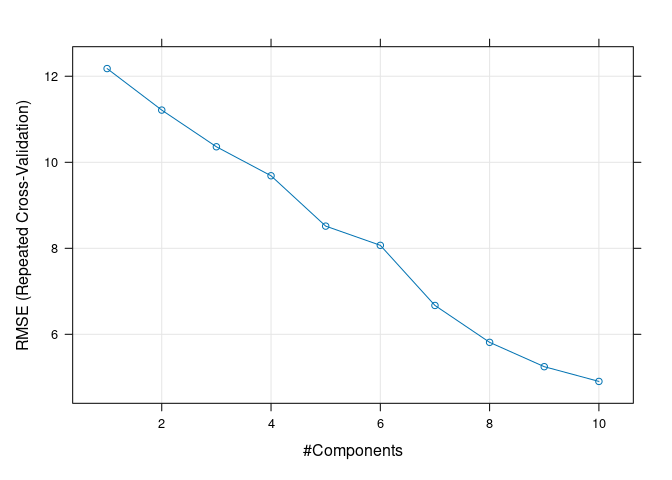
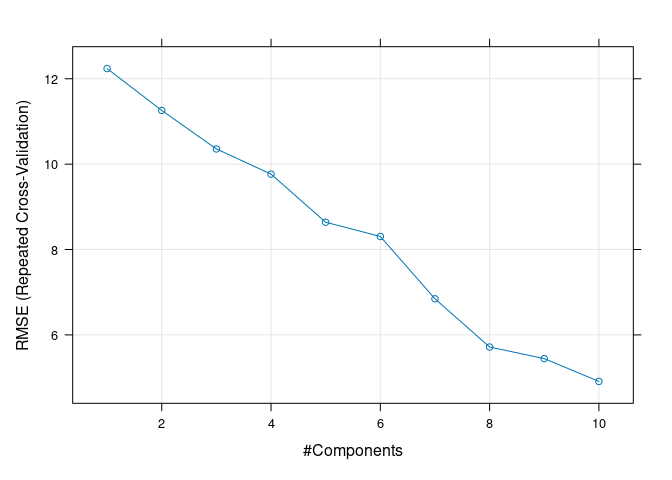
update readme

diff --git a/README.md b/README.md
@@ -1,25 +1,25 @@
 TROPIRES Summer School Uganda August 19–23 2024
 ================
 
-- [Data overview](#data-overview)
+- [Calibration data](#calibration-data)
   - [TropSOC data from Uganda (cropland and
     forest)](#tropsoc-data-from-uganda-cropland-and-forest)
-    - [Absorbance spectra in NIR
-      range](#absorbance-spectra-in-nir-range)
   - [Samples from PhD project Laura](#samples-from-phd-project-laura)
-- [Calibration modeling
-  (cross-validation)](#calibration-modeling-cross-validation)
-  - [Pre-process / smoothen spectra](#pre-process--smoothen-spectra)
-  - [Visualization](#visualization)
-  - [PLS modeling](#pls-modeling)
-- [Calibration modeling (independent
-  validation)](#calibration-modeling-independent-validation)
+  - [Calibration modeling
+    (cross-validation)](#calibration-modeling-cross-validation)
+    - [Pre-process / smoothen spectra](#pre-process--smoothen-spectra)
+    - [Visualization](#visualization)
+    - [PLS modeling](#pls-modeling)
+  - [Calibration modeling (independent
+    validation)](#calibration-modeling-independent-validation)
+- [Validation samples](#validation-samples)
+- [Prediction samples](#prediction-samples)
 
-Data for soil near-infrared calibration modeling exercises
+**Data for soil near-infrared calibration modeling exercises**
 
-Leonardo Ramirez-Lopez, Moritz Mainka, Laura Summerauer
+*Leonardo Ramirez-Lopez, Moritz Mainka, Laura Summerauer*
 
-# Data overview
+# Calibration data
 
 ## TropSOC data from Uganda (cropland and forest)
 
@@ -47,8 +47,7 @@ str(tropsoc_data)
     ##   .. ..$ : NULL
     ##   .. ..$ : chr [1:1745] "7408" "7406" "7404" "7402" ...
 
-### Absorbance spectra in NIR range
-
+- Absorbance spectra in NIR range
 - Units are wavenumbers (1 / cm)
 
 ``` r
@@ -87,7 +86,7 @@ str(laura_data)
     ##   .. ..$ : NULL
     ##   .. ..$ : chr [1:1745] "7408" "7406" "7404" "7402" ...
 
-# Calibration modeling (cross-validation)
+## Calibration modeling (cross-validation)
 
 - Use here merged TropSOC and Laura samples (except volcanic Saaka
   samples)
@@ -113,7 +112,7 @@ str(alldata)
     ##   .. ..$ : NULL
     ##   .. ..$ : chr [1:1745] "7408" "7406" "7404" "7402" ...
 
-## Pre-process / smoothen spectra
+### Pre-process / smoothen spectra
 
 ``` r
 wavs <- as.numeric(colnames(alldata$abs))
@@ -126,7 +125,7 @@ alldata$abs_pre <- alldata$abs |>
   # savitzkyGolay(m = 2, p = 2, w = 17) 
 ```
 
-## Visualization
+### Visualization
 
 ``` r
 # raw absorbance
@@ -156,7 +155,7 @@ matplot(x = as.numeric(colnames(alldata$abs_pre)), y = alldata$abs_pre[1,],
 
 ![](README_files/figure-gfm/unnamed-chunk-6-2.png)<!-- -->
 
-## PLS modeling
+### PLS modeling
 
 ``` r
 library(caret)
@@ -193,20 +192,20 @@ pls_model
     ## 
     ## Pre-processing: centered (1727), scaled (1727) 
     ## Resampling: Cross-Validated (10 fold, repeated 1 times) 
-    ## Summary of sample sizes: 135, 137, 135, 136, 137, 136, ... 
+    ## Summary of sample sizes: 135, 135, 138, 137, 137, 135, ... 
     ## Resampling results across tuning parameters:
     ## 
     ##   ncomp  RMSE       Rsquared   MAE      
-    ##    1     12.178726  0.2589617  10.029109
-    ##    2     11.213387  0.3696282   9.034559
-    ##    3     10.360286  0.4516112   8.422975
-    ##    4      9.686226  0.5189916   7.723089
-    ##    5      8.515618  0.6512602   7.099686
-    ##    6      8.068875  0.6854908   6.761423
-    ##    7      6.670518  0.7900527   5.282756
-    ##    8      5.812948  0.8433361   4.577124
-    ##    9      5.247030  0.8707254   4.107560
-    ##   10      4.904454  0.8902513   3.756511
+    ##    1     12.238933  0.2491528  10.054748
+    ##    2     11.257560  0.3711529   9.009294
+    ##    3     10.356019  0.4772331   8.464809
+    ##    4      9.766097  0.5368541   7.743555
+    ##    5      8.638522  0.6394758   7.164671
+    ##    6      8.305312  0.6791765   7.029504
+    ##    7      6.844789  0.7765025   5.388401
+    ##    8      5.715564  0.8346323   4.445922
+    ##    9      5.443237  0.8517842   4.210469
+    ##   10      4.909349  0.8775332   3.869282
     ## 
     ## RMSE was used to select the optimal model using  the one SE rule.
     ## The final value used for the model was ncomp = 10.
@@ -225,7 +224,7 @@ range(alldata$TC_gkg)
 
 ![](README_files/figure-gfm/unnamed-chunk-8-1.png)<!-- -->
 
-# Calibration modeling (independent validation)
+## Calibration modeling (independent validation)
 
 ``` r
 # kennard-Stone sampling for independent validation
@@ -258,22 +257,78 @@ pls_model_iv
     ## 
     ## Pre-processing: centered (1727), scaled (1727) 
     ## Resampling: Cross-Validated (10 fold, repeated 1 times) 
-    ## Summary of sample sizes: 91, 91, 93, 91, 91, 89, ... 
+    ## Summary of sample sizes: 90, 93, 92, 91, 91, 90, ... 
     ## Resampling results across tuning parameters:
     ## 
     ##   ncomp  RMSE       Rsquared   MAE     
-    ##    1     11.864448  0.3341853  9.997683
-    ##    2     11.030310  0.4340997  9.174372
-    ##    3     10.753252  0.4595938  8.958668
-    ##    4     10.042651  0.5326700  8.228529
-    ##    5      8.863269  0.6536931  7.345644
-    ##    6      8.560548  0.6836322  7.233586
-    ##    7      7.427885  0.7433091  5.921165
-    ##    8      6.611823  0.8029454  5.312922
-    ##    9      6.232088  0.8238789  4.970096
-    ##   10      5.883511  0.8482801  4.724376
+    ##    1     12.041767  0.2745027  9.997320
+    ##    2     11.244537  0.3833168  9.262453
+    ##    3     10.800388  0.4291245  8.879407
+    ##    4     10.086885  0.5124458  8.126361
+    ##    5      9.155540  0.6372608  7.580643
+    ##    6      8.178088  0.7106456  6.849990
+    ##    7      7.626245  0.7818996  6.120622
+    ##    8      6.975834  0.8128793  5.432013
+    ##    9      6.179062  0.8475838  4.796784
+    ##   10      5.829515  0.8501411  4.641577
     ## 
     ## RMSE was used to select the optimal model using  the one SE rule.
     ## The final value used for the model was ncomp = 9.
 
 ![](README_files/figure-gfm/unnamed-chunk-10-1.png)<!-- -->
+
+# Validation samples
+
+These validation samples will be measured with an infrared spectrometer.
+Since we have available SOC data from the laboratory, we can use these
+samples to validate our models.
+
+- Samples were provided by Matt Cooper
+- Samples from Kibale National Park
+- Dried, sieved and ground soil
+- Reference SOC data were measured at ETH Zurich using dry combustion
+
+``` r
+validation_samples <- read_csv("data/validation_samples/validation_samples.csv")
+
+head(validation_samples)
+```
+
+    ## # A tibble: 6 × 10
+    ##   sample_id core_id depth_start depth_end increment_length   lat  long Location
+    ##   <chr>     <chr>         <dbl>     <dbl>            <dbl> <dbl> <dbl> <chr>   
+    ## 1 1052_1020 1052             10        20               10 0.405  30.3 Active  
+    ## 2 1053_0010 1053              0        10               10 0.405  30.3 Active  
+    ## 3 1093_0010 1093              0        10               10 0.387  30.3 Active  
+    ## 4 1151_0010 1151              0        10               10 0.389  30.3 Active  
+    ## 5 1273_8090 1273             80        90               10 0.306  30.3 Active  
+    ## 6 2012_0010 2012              0        10               10 0.387  30.3 Active  
+    ## # ℹ 2 more variables: History <chr>, TC_gkg <dbl>
+
+# Prediction samples
+
+These prediction samples will be measured with an infrared spectrometer.
+After knowing the uncertainty of such prediction models by the
+validation samples (above), we can use the established model to predict
+SOC data for these samples.
+
+- Samples were provided by Matt Cooper (2 contrasting soil cores)
+- Samples from Kibale National Park
+- Dried, sieved and ground soil
+
+``` r
+prediction_samples <- read_csv("data/prediction_samples/prediction_samples.csv")
+
+head(prediction_samples)
+```
+
+    ## # A tibble: 6 × 9
+    ##   sample_id core_id depth_start depth_end increment_length   lat  long Location
+    ##   <chr>       <dbl>       <dbl>     <dbl>            <dbl> <dbl> <dbl> <chr>   
+    ## 1 1093_0010    1093           0        10               10 0.387  30.3 Active  
+    ## 2 1093_1020    1093          10        20               10 0.387  30.3 Active  
+    ## 3 1093_2030    1093          20        30               10 0.387  30.3 Active  
+    ## 4 1093_3040    1093          30        40               10 0.387  30.3 Active  
+    ## 5 1093_4050    1093          40        50               10 0.387  30.3 Active  
+    ## 6 1093_5060    1093          50        60               10 0.387  30.3 Active  
+    ## # ℹ 1 more variable: History <chr>
